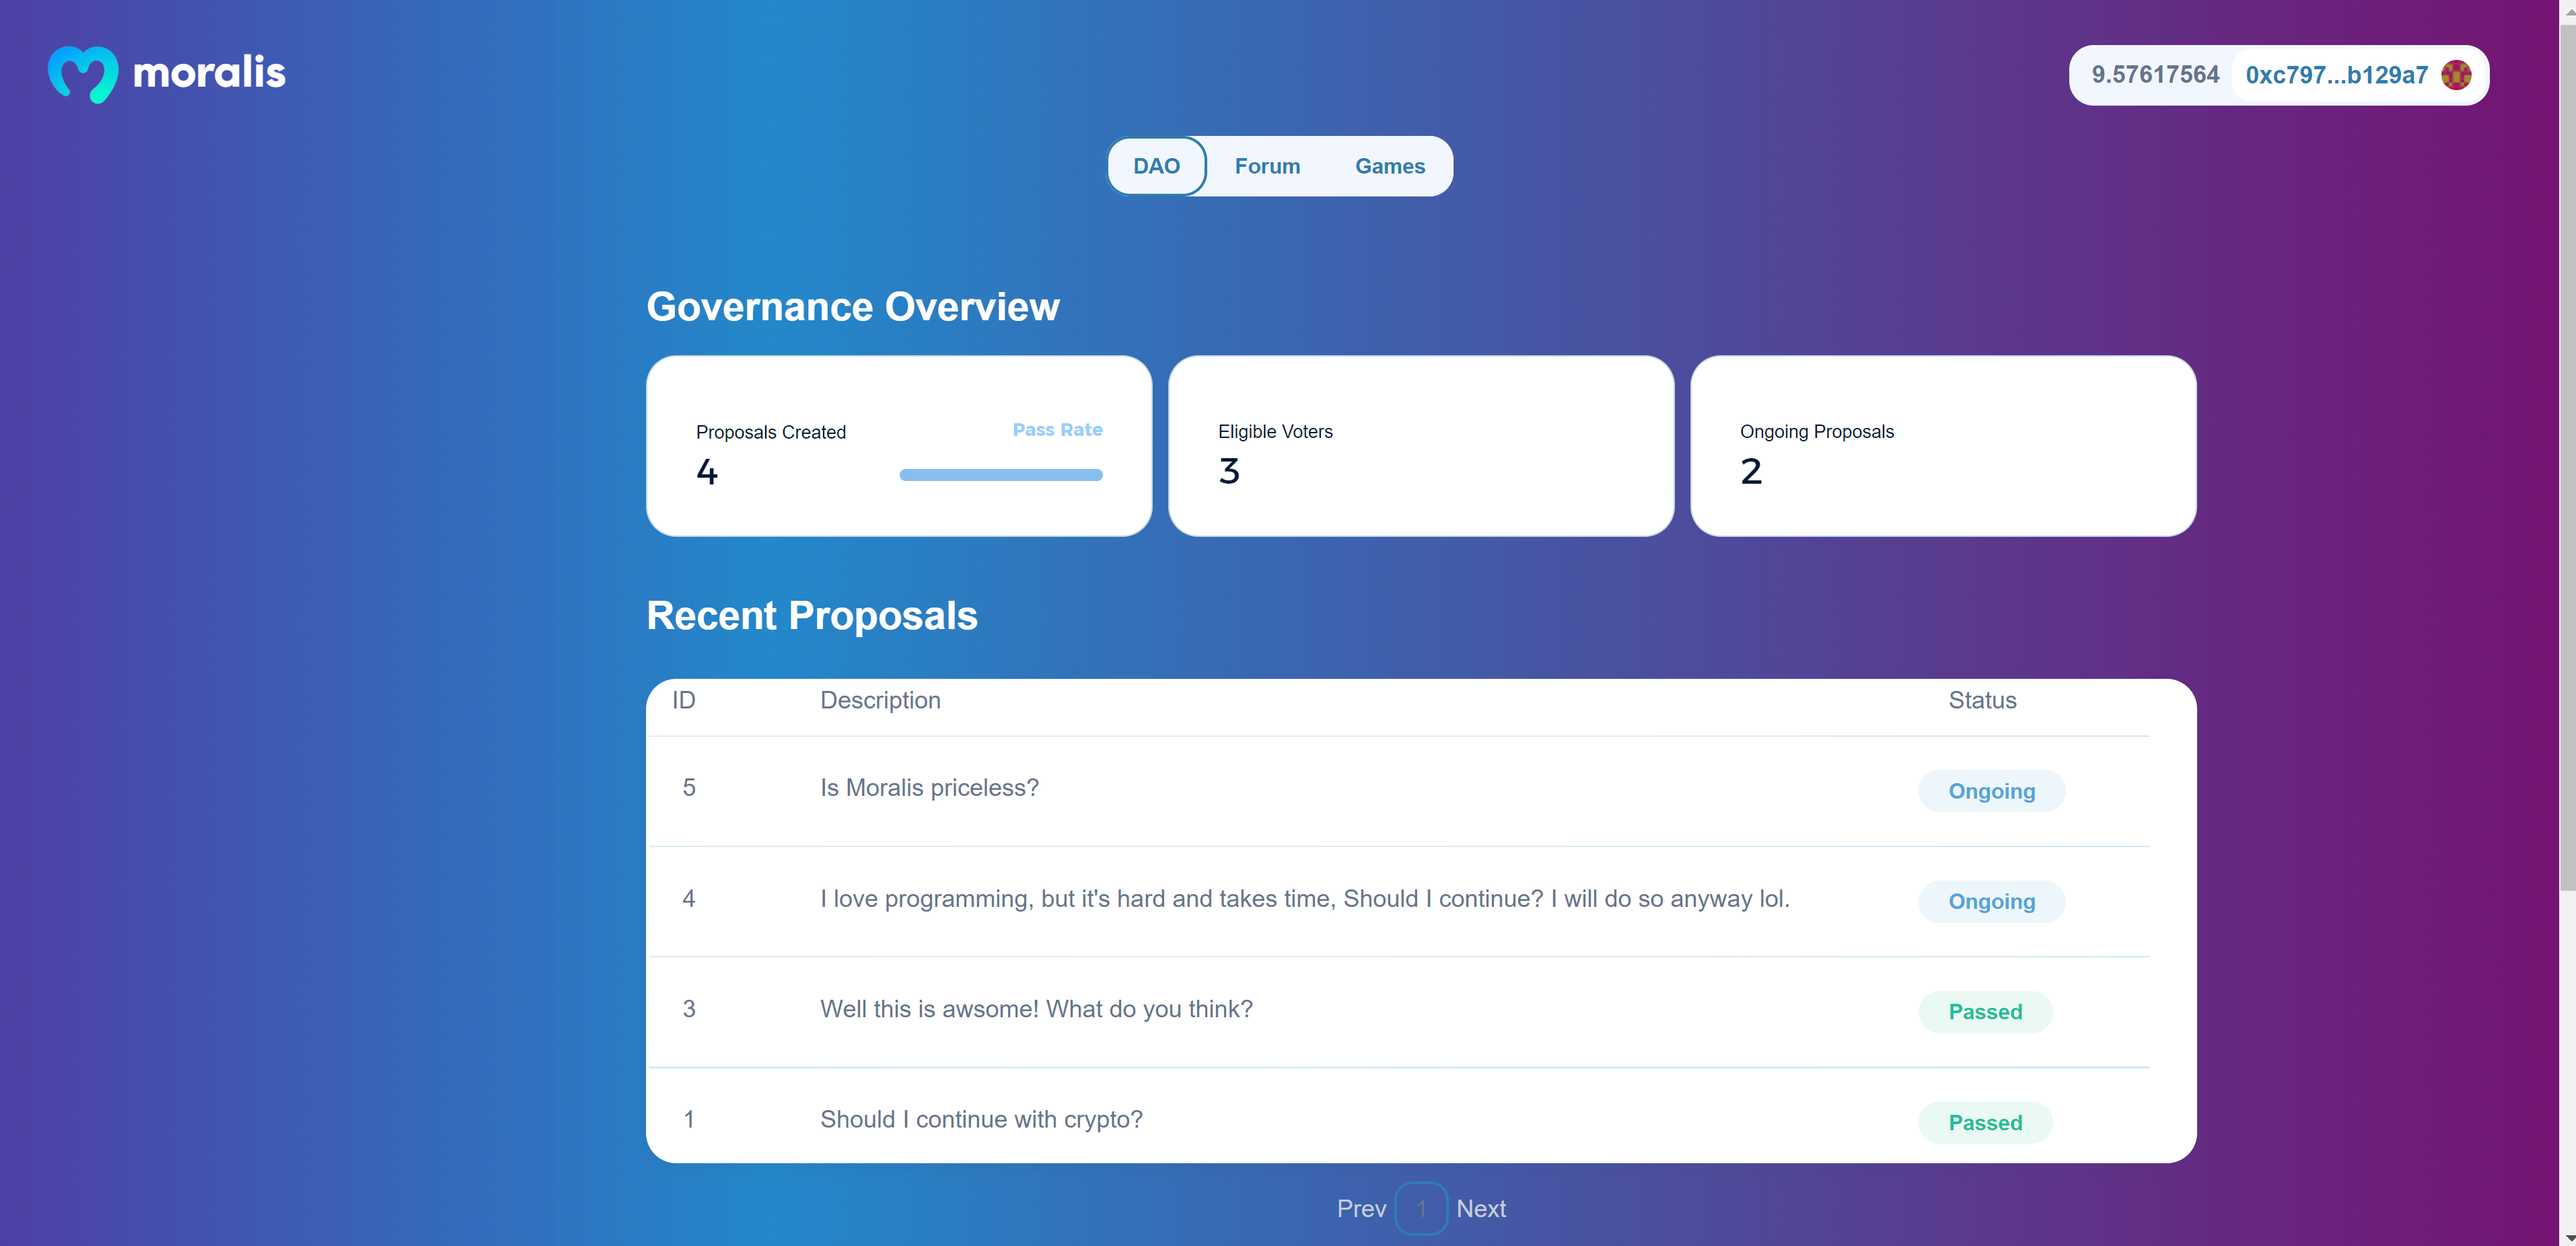
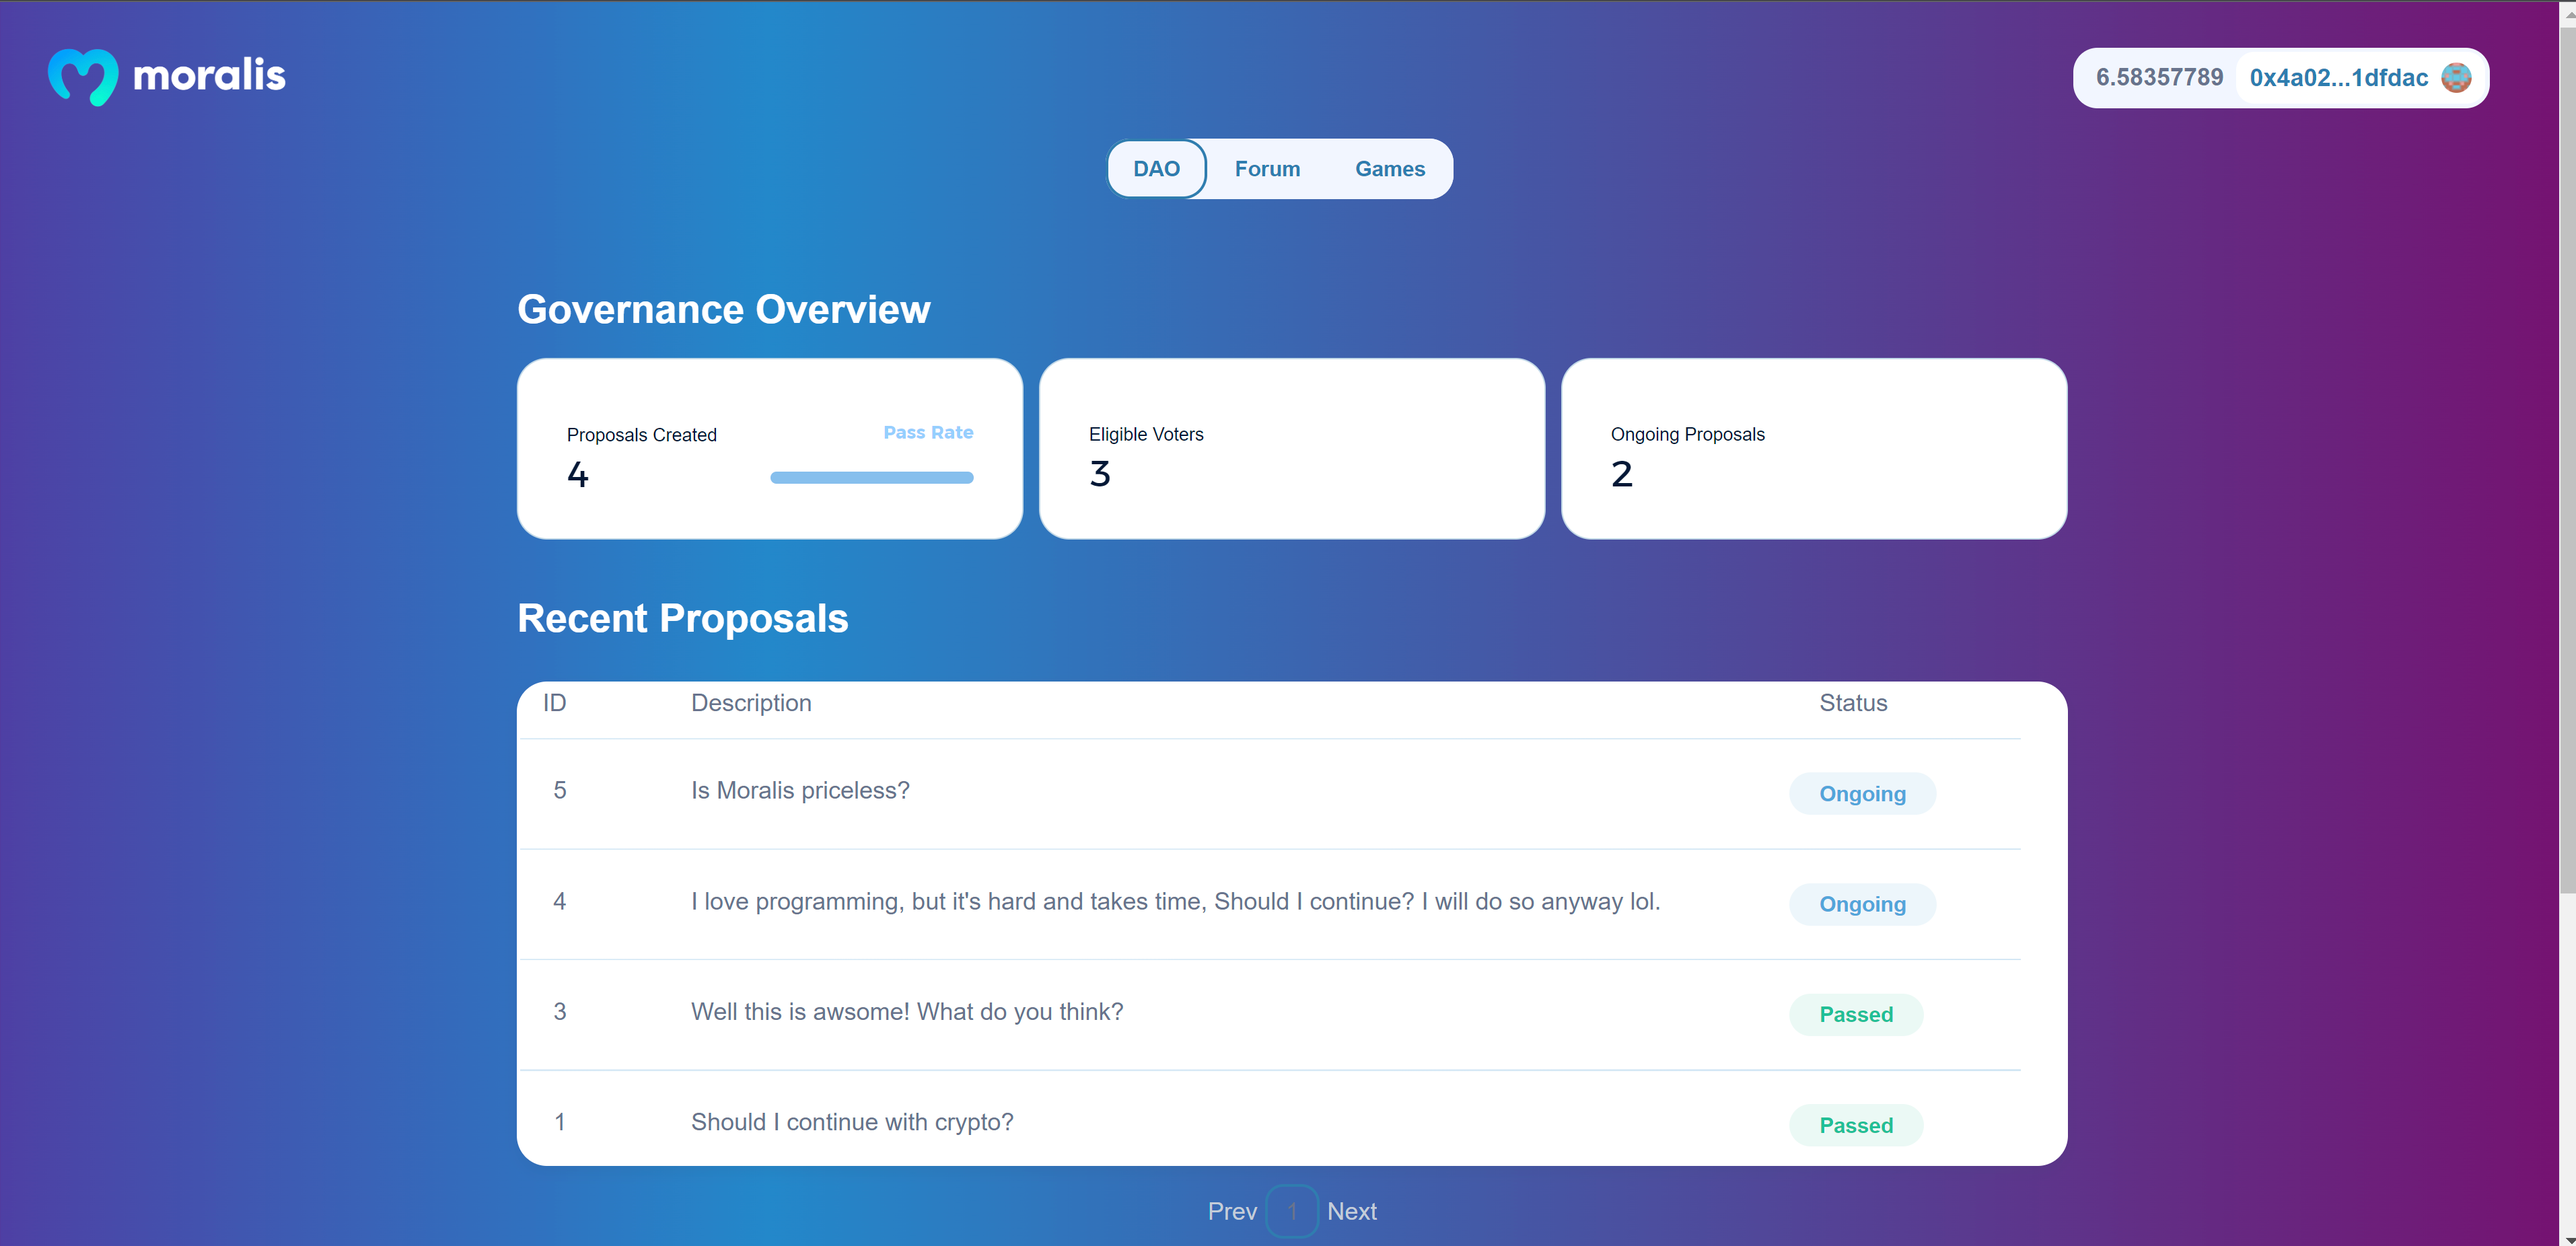
ui fix's

diff --git a/src/pages/pages.css b/src/pages/pages.css
@@ -55,7 +55,7 @@
   
   .tabContent {
     justify-content: center;
-    left: 25vw;
+    left: 20vw;
     position: absolute;
     width:60vw;
     margin-top: 50px;
